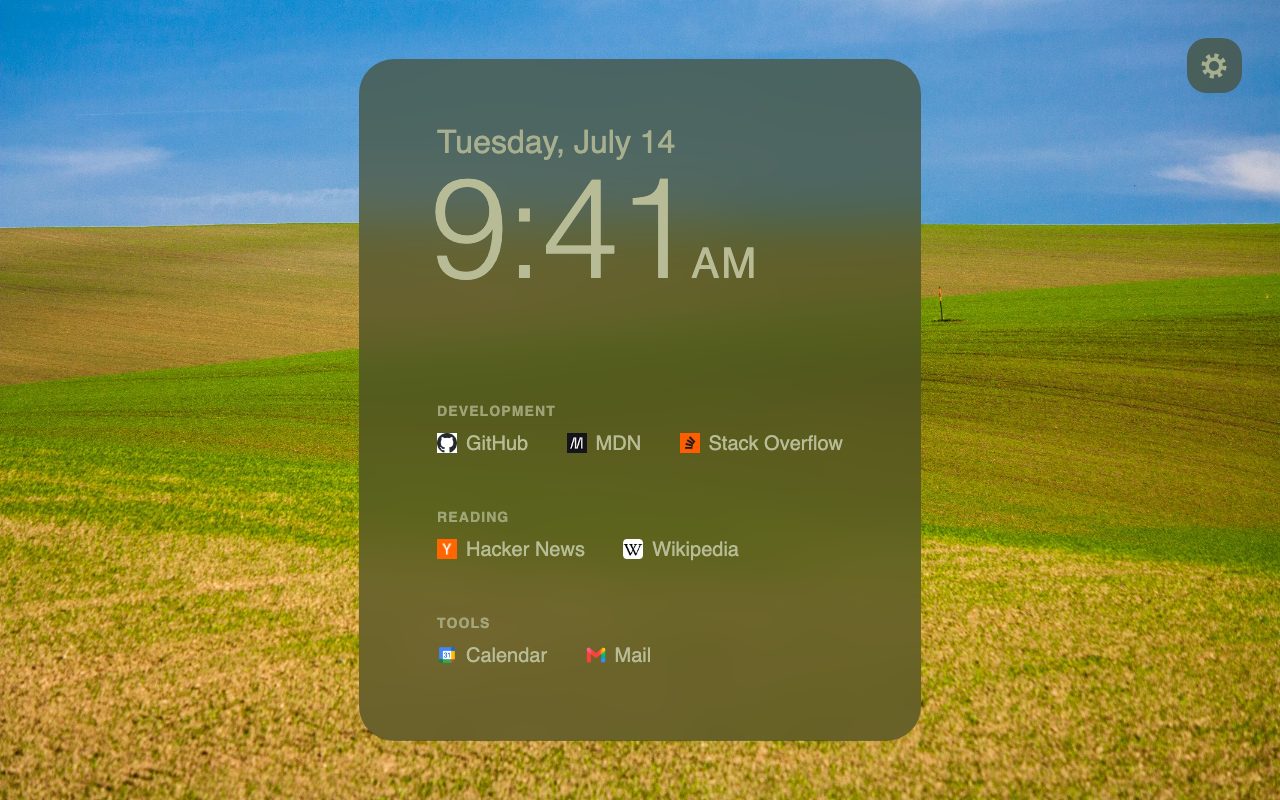
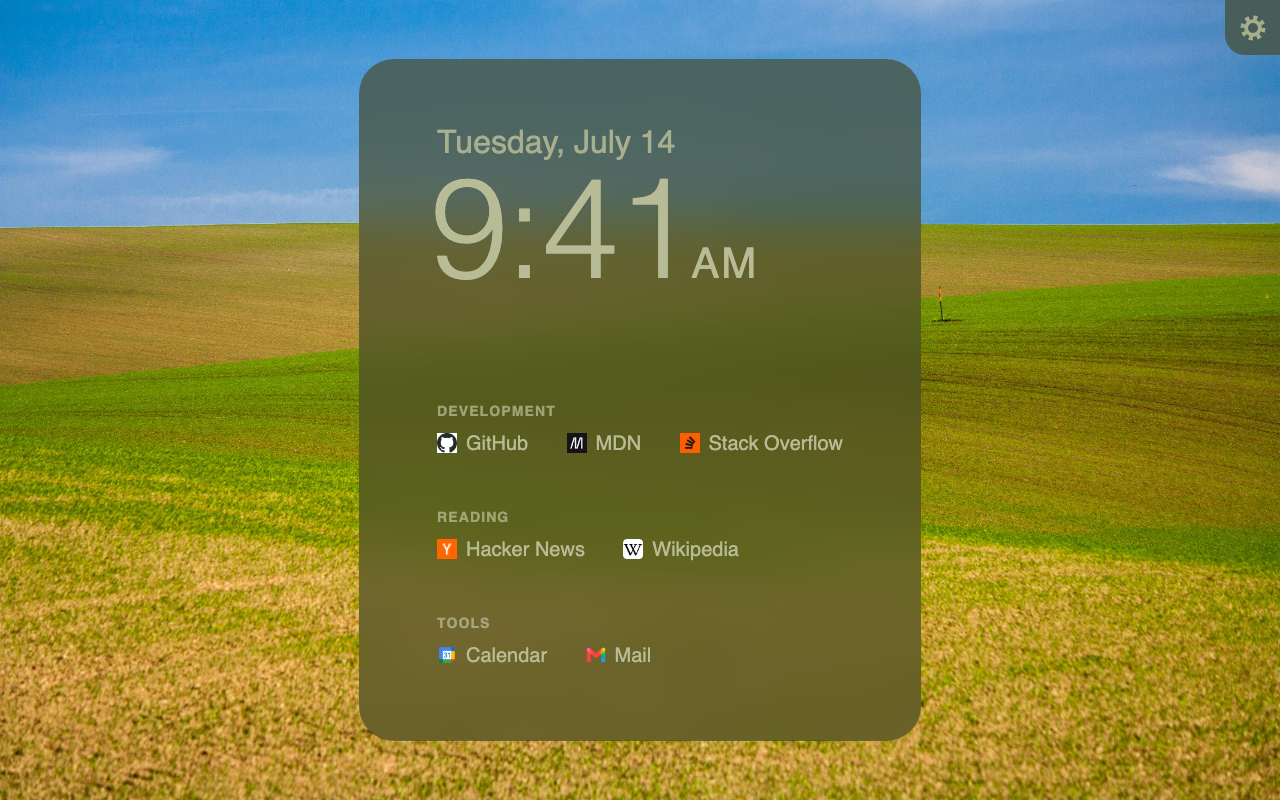
Animate the attach toggle, and let it attach the gear in Center
Toggling "Attach to the corners" snapped the panels into place. It now
runs the same view transition as a layout change, so the panels glide
between floating and flush. The gear's frosted backing is now one of
the transition's blurred groups, so it keeps its frost mid-move.

Center has a panel in a corner too, the gear, so the setting now
applies there as well: attached, the gear sits flush in the top-right
corner. The checkbox shows in both layouts, with a hint that says what
it affects in each.

Regenerates the store screenshots.

Changed region(s): [[0.9062, 0.0, 1.0, 0.125]]

diff --git a/panels.css b/panels.css
@@ -171,9 +171,15 @@ body[data-layout="corners"] {
   filter: none;
 }
 
-/* Attached (Corners only): each panel sits flush in its corner, with the
-   corner against the screen edges squared off and only the inner corner
-   rounded */
+/* Attached: each panel in a corner sits flush in it, with the corner
+   against the screen edges squared off and only the inner corner rounded.
+   That's every panel in Corners, and just the gear in Center. */
+body[data-attached] .top-controls {
+  top: 0;
+  right: 0;
+  border-radius: 0 0 0 min(var(--panel-radius), 1rem);
+}
+
 body[data-layout="corners"][data-attached] {
   & .link-groups {
     top: 0;
@@ -187,12 +193,6 @@ body[data-layout="corners"][data-attached] {
     right: 0;
     bottom: 0;
     border-radius: var(--panel-radius) 0 0 0;
-  }
-
-  & .top-controls {
-    top: 0;
-    right: 0;
-    border-radius: 0 0 0 min(var(--panel-radius), 1rem);
   }
 }
 
@@ -359,7 +359,8 @@ body[data-layout="center"] {
    apply it themselves; otherwise the panels would lose their frost for the
    length of the move */
 ::view-transition-group(panel),
-::view-transition-group(clock) {
+::view-transition-group(clock),
+::view-transition-group(controls) {
   backdrop-filter: blur(var(--panel-blur));
   border-radius: var(--panel-radius);
   overflow: hidden;

diff --git a/new-tab.js b/new-tab.js
@@ -88,12 +88,15 @@ function initMenu() {
 const reducedMotion = window.matchMedia("(prefers-reduced-motion: reduce)");
 
 // Applies everything settings control; safe to call again with new settings.
-// A layout change animates: the panels glide and reshape into their new
-// places (see the view transition styles in panels.css).
+// Changes that move the panels (layout, attaching them to the corners)
+// animate: the panels glide and reshape into their new places (see the
+// view transition styles in panels.css).
 function renderSettings(settings) {
-  const layoutChanged =
-    currentSettings && currentSettings.look.layout !== settings.look.layout;
-  if (layoutChanged && document.startViewTransition && !reducedMotion.matches) {
+  const moved =
+    currentSettings &&
+    (currentSettings.look.layout !== settings.look.layout ||
+      currentSettings.look.attached !== settings.look.attached);
+  if (moved && document.startViewTransition && !reducedMotion.matches) {
     document.startViewTransition(() => applySettings(settings));
   } else {
     applySettings(settings);

diff --git a/options.js b/options.js
@@ -734,8 +734,11 @@ function renderLook() {
     button.setAttribute("aria-pressed", button.dataset.layout === look.layout);
   });
   document.getElementById("look-attached").checked = look.attached;
-  // Attaching only means something in Corners
-  document.getElementById("look-attached-row").hidden = look.layout !== "corners";
+  // Corners attaches every panel; Center has only the gear in a corner
+  document.getElementById("look-attached-hint").textContent =
+    look.layout === "corners"
+      ? "Each panel sits flush in its corner of the screen"
+      : "The gear sits flush in the top-right corner of the screen";
   document.querySelectorAll("#look-density button").forEach((button) => {
     button.setAttribute("aria-pressed", button.dataset.density === look.density);
   });

diff --git a/options.html b/options.html
@@ -259,10 +259,6 @@
         cursor: pointer;
       }
 
-      .toggle[hidden] {
-        display: none;
-      }
-
       .toggle small {
         display: block;
         color: var(--ink-muted);
@@ -634,9 +630,9 @@
             </div>
           </div>
 
-          <label class="toggle" id="look-attached-row">
+          <label class="toggle">
             <input type="checkbox" id="look-attached" />
-            <span>Attach panels to the corners<small>Each panel sits flush in its corner of the screen</small></span>
+            <span>Attach to the corners<small id="look-attached-hint"></small></span>
           </label>
 
           <div class="field">

diff --git a/render.js b/render.js
@@ -325,7 +325,7 @@ function lookColors(look, rgb) {
 function applyLayout(look) {
   document.body.dataset.layout = look.layout;
   document.body.dataset.density = look.density;
-  // Only Corners reads it (see panels.css)
+  // Corners attaches every panel, Center just the gear (see panels.css)
   document.body.toggleAttribute("data-attached", look.attached);
 }
 

diff --git a/storage.js b/storage.js
@@ -31,7 +31,7 @@ const defaultSettings = {
     blur: 12,
     corners: 1.75,
     density: "comfortable",
-    // Corners only: panels sit flush in their corners rather than floating
+    // Panels in the screen's corners sit flush in them rather than floating
     attached: true,
   },
 };
